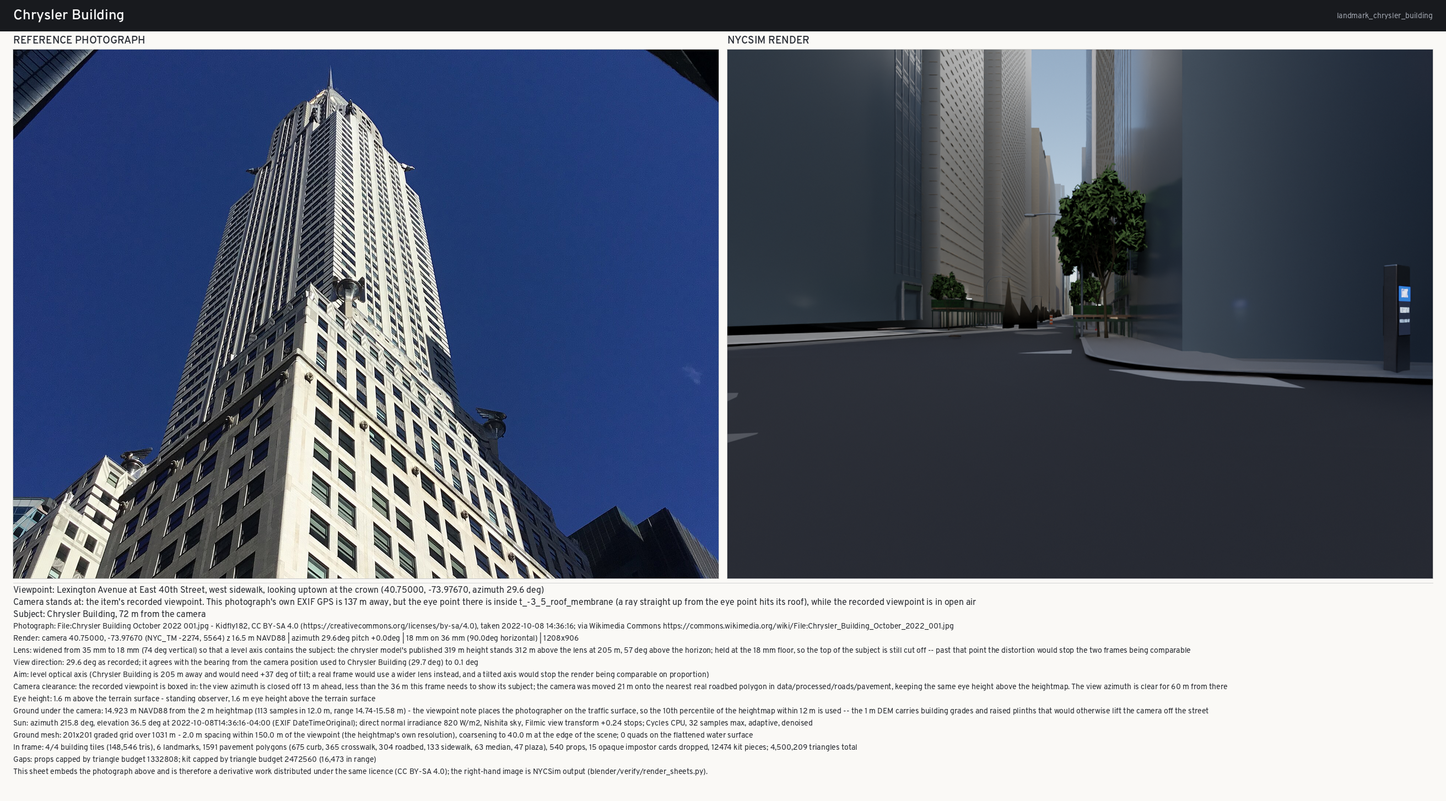
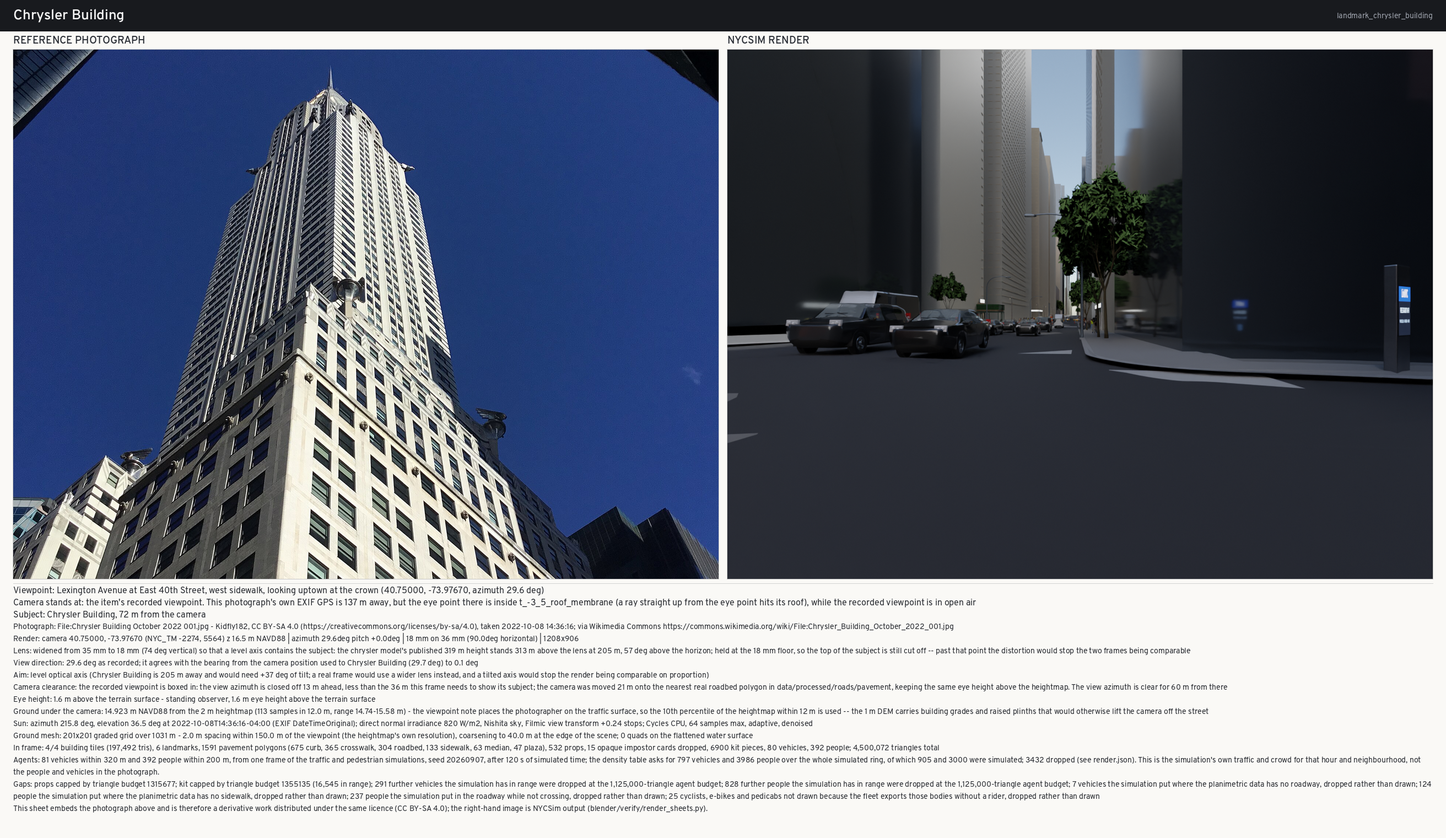
verify: the Chrysler Building sheet shows no Chrysler Building - I18 in a picture
The subject stands 72.1 m away with its top at 331 m, so containing it needs
77.1 deg of elevation; the frame reaches 36.9 and the lens is already at the
18 mm floor.  What the sheet shows is the base of a dark tower on the right, the
Lexington Avenue canyon receding, a queue of cars, a street tree, a LinkNYC
kiosk and 392 people.  An anonymous Midtown street.

Nothing in the world is wrong here.  Every element is correctly placed and the
camera is where the rules put it; the sheet fails because a level axis, an 18 mm
floor and a photograph-derived aspect ratio cannot together contain a 331 m
subject at 72 m.  The strongest argument in the set for letting the camera tilt
and saying on the sheet that it did.

Also: mean luminance 0.182 against the photograph's 0.325 (I16 in a canyon), and
the vehicle cull fired for the second time, removing one.

Claude-Session: https://claude.ai/code/session_012rCzdfEp56Z5bDvSJLVsiQ

diff --git a/docs/verification/comparison/landmark_chrysler_building/assessment.md b/docs/verification/comparison/landmark_chrysler_building/assessment.md
@@ -14,6 +14,26 @@
 
 **Verdict — rescued from a black frame to a legible one — the boxed-in test moved the camera off a wall 13 m ahead and the lens rule opened to 18 mm — and the Chrysler Building is still not in it, because from a Lexington Avenue sidewalk the tower is behind the block in front of you**
 
+## Re-rendered 2026-09-07 — the clearest case of I18: the sheet shows no Chrysler Building
+
+This is what deviation I18 looks like in a picture. The subject stands 72.1 m away and its top is at
+331 m, so containing it needs **77.1° of elevation**; this frame reaches **36.9°**, and the lens is
+already at the 18 mm floor. What the sheet shows is the base of a dark tower on the right, the
+Lexington Avenue canyon receding, a queue of cars, a street tree, a LinkNYC kiosk and 392 people —
+an anonymous Midtown street. The Chrysler Building is in the frame in the sense that its first few
+storeys are; nothing that identifies it is.
+
+The frame is also dark: mean luminance **0.182 against the photograph's 0.325**, which is I16 in a
+canyon again.
+
+`culled_after_camera_move` reports **one vehicle** removed, the second time the vehicle half of the
+cull has fired.
+
+There is nothing wrong with the world here. Every element in the frame is correctly placed and the
+camera is where the rules put it; the sheet fails because a level axis, an 18 mm floor and a
+photograph-derived aspect ratio cannot together contain a 331 m subject at 72 m. It is the strongest
+argument in the set for allowing the camera to tilt and saying on the sheet that it did.
+
 ## What matches
 
 * The camera correction is the story of this sheet and it is fully stated: the recorded viewpoint had the view closed off 13 m ahead against the 36 m this subject needs, so the camera was moved 21 m onto the nearest real roadbed polygon with 60 m of clear view. Before that the frame was mean 0.096, effectively black.
